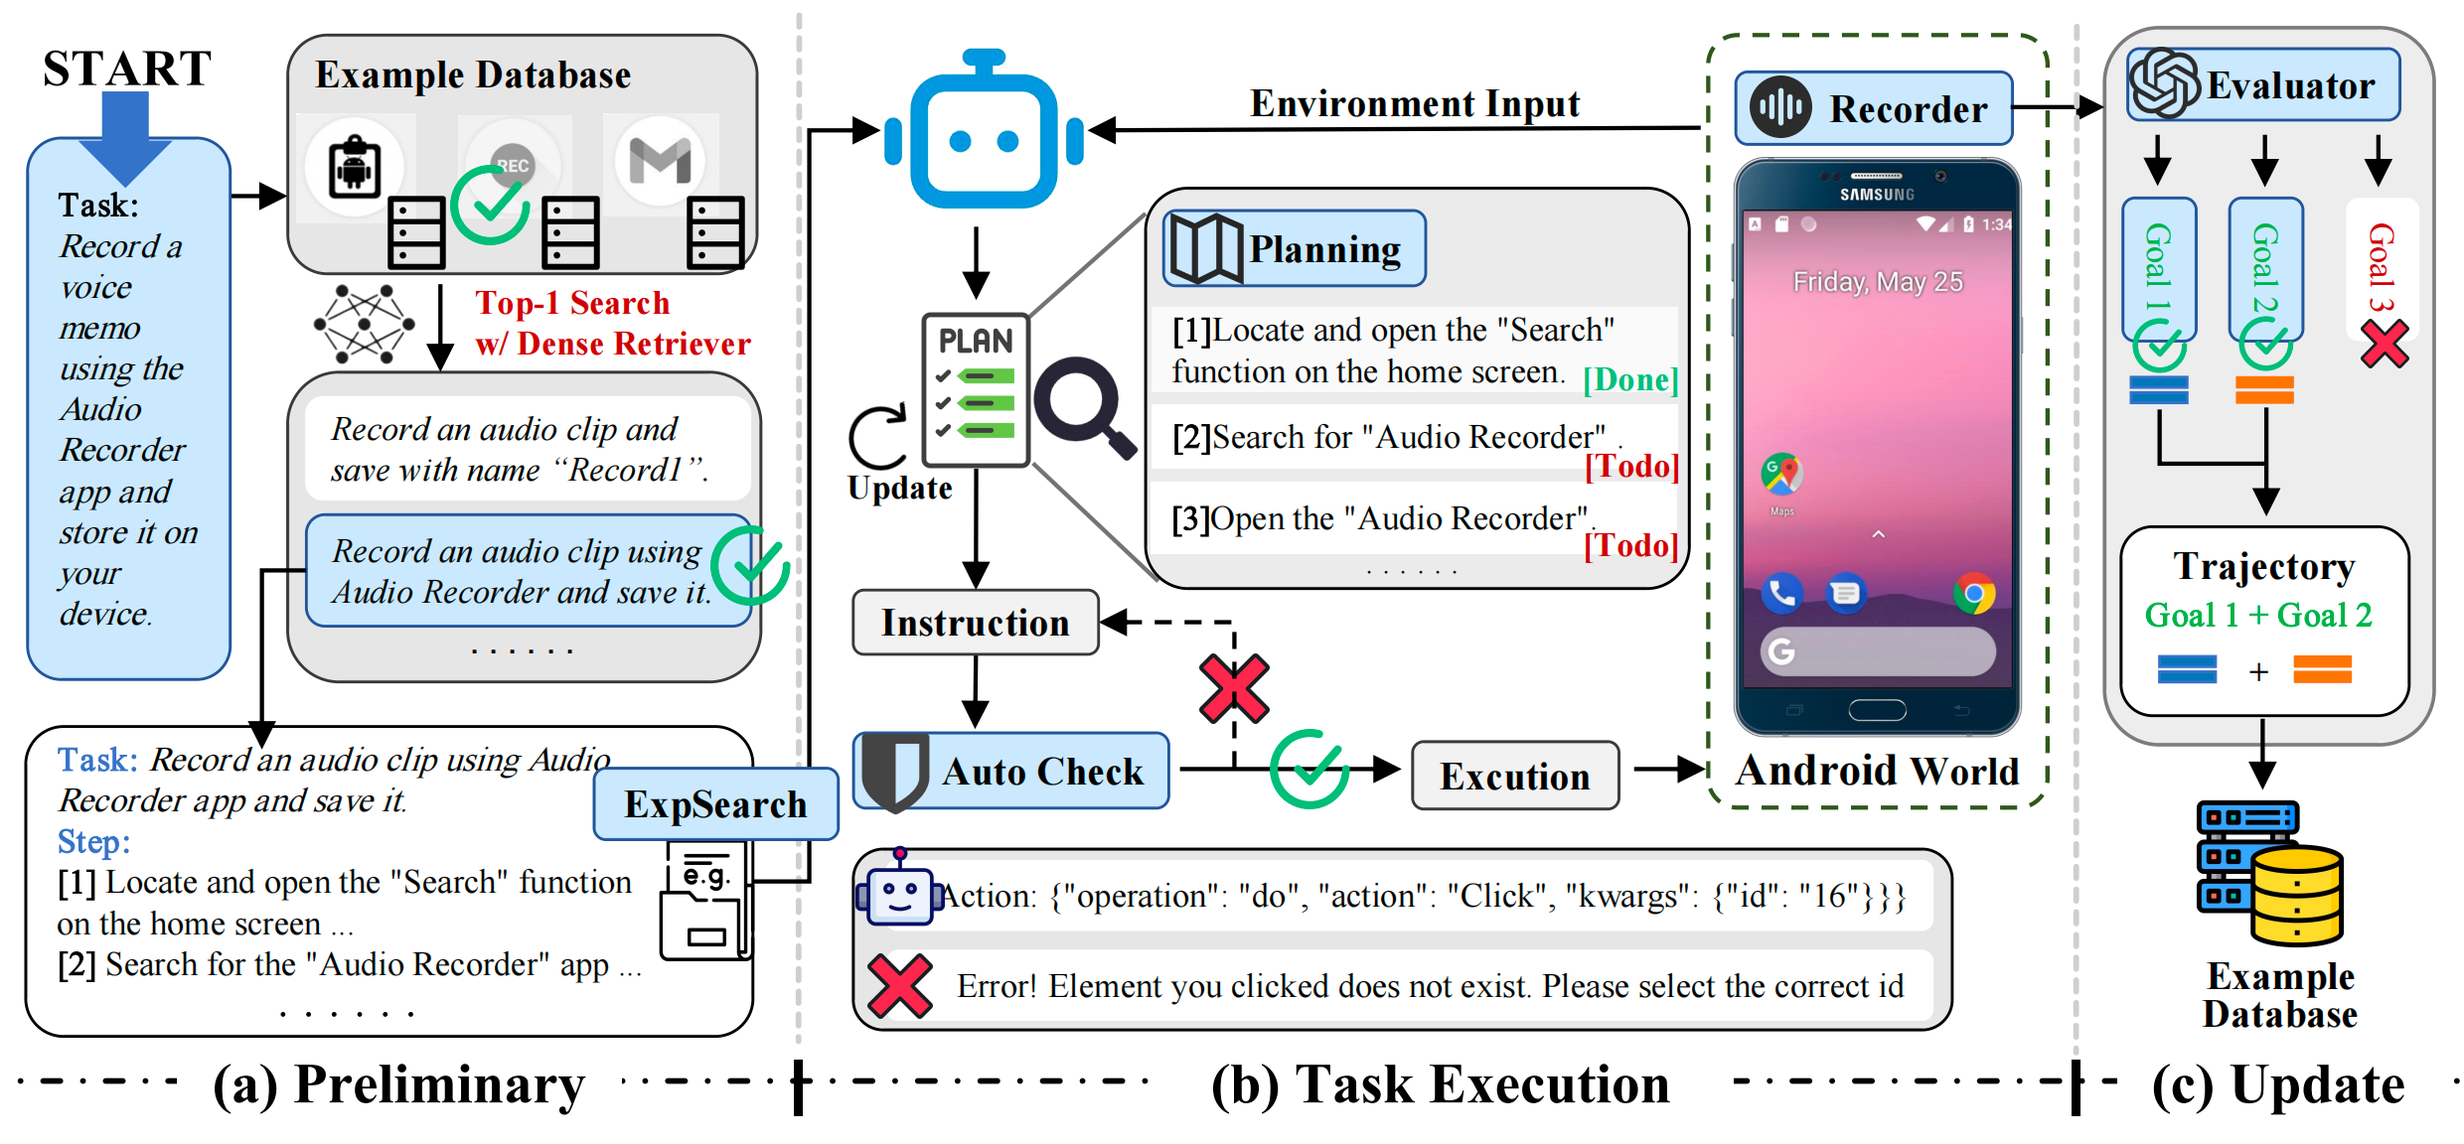
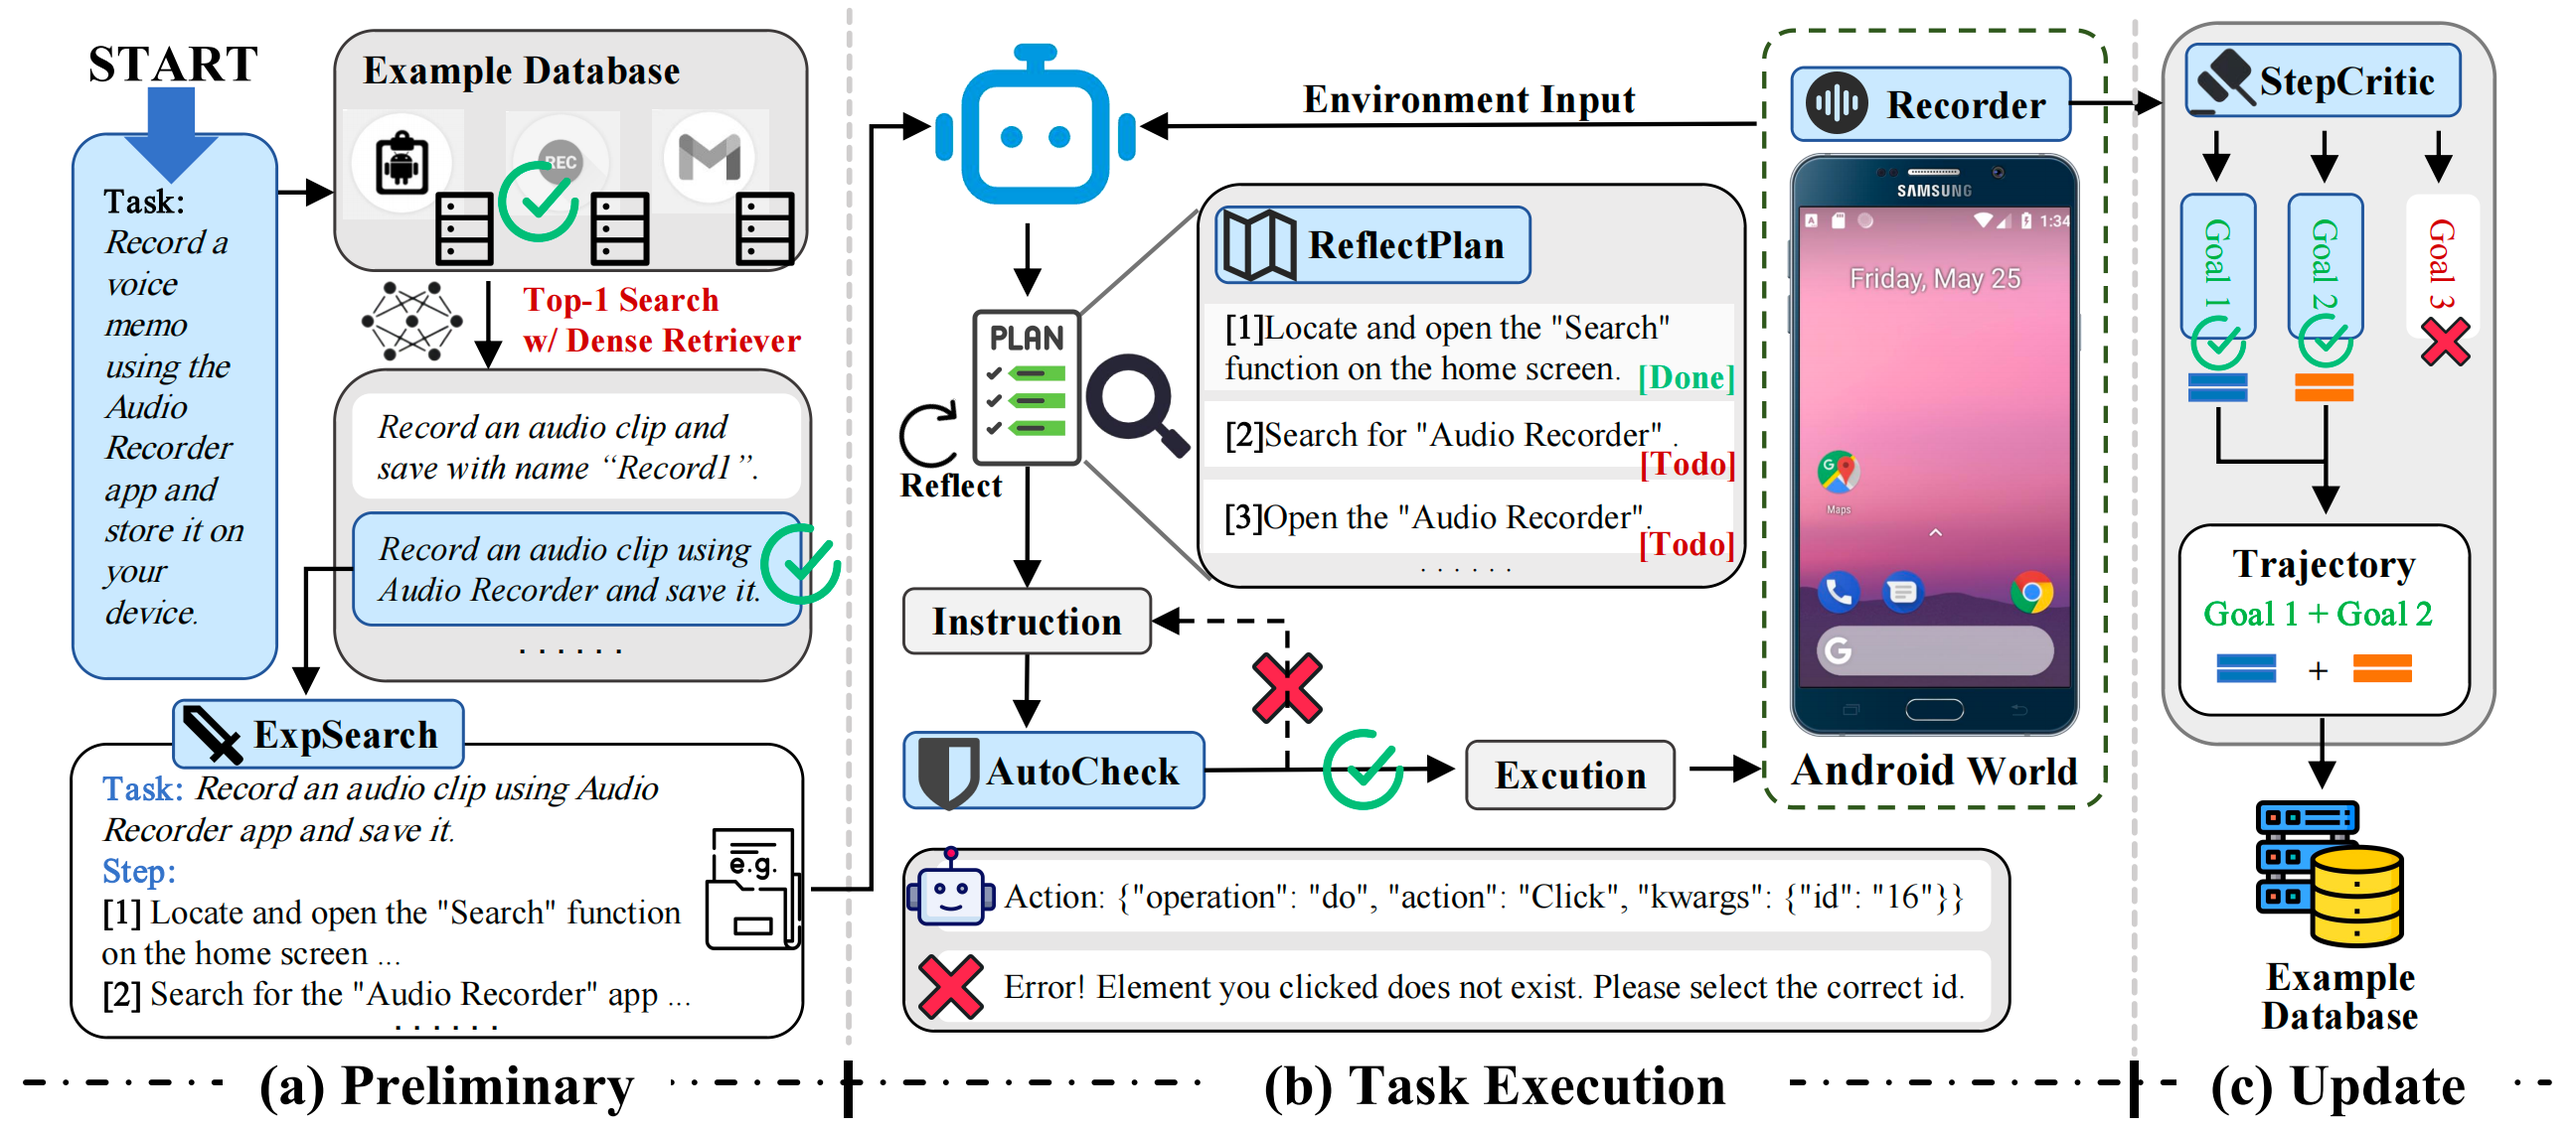
fix

Changed region(s): [[0.0, 0.0, 0.9935, 0.9842], [0.3105, 0.9227, 0.3415, 0.9842]]

diff --git a/index.html b/index.html
@@ -61,6 +61,11 @@
     <div class="navbar-menu">
       <div class="navbar-start" style="flex-grow: 1; justify-content: center;">
         <!-- TODO -->
+        <a class="navbar-item" href="https://anonymous.4open.science/r/Androidgen-7F18" style="display: flex; justify-content: center; align-items: center;">
+          <span class="icon">
+            <i class="fab fa-github"></i>
+          </span>
+        </a>
 
         <!-- <div class="navbar-item has-dropdown is-hoverable">
           <a class="navbar-link">
@@ -93,7 +98,7 @@
         <div class="columns is-centered">
           <div class="column has-text-centered">
             <h1 class="title is-1 publication-title">
-              Androidgen
+              AndroidGen: Building an Android Language Agent under Data Scarcity
             </h1>
             <!-- TODO -->
             <div class="is-size-5 publication-authors">
@@ -155,34 +160,19 @@
         <div class="column highlight is-8 content">
           <span style="font-weight:bold">
             <!-- TODO -->
-            Large Language Models (LLMs) have opened up a world of possibilities for various NLP tasks, sparking optimism for the future.
-            Despite their potential, LLMs are not yet widely harnessed to aid
-            in daily life tasks as agents on real mobile devices. One of the most
-            significant challenges is the need for highquality data sources.
-            Even state-of-the-art models fail to perform tasks due to insufficient capabilities and the absence of robust data evaluation. On
-            the other hand, human annotation is often hindered by time constraints, labor intensity, and inconsistencies in user habits. Given
-            these challenges, we develop A3Pipe (Automated Android Agent
-            Pipeline). We propose an agent algorithm comprising ExpSearch,
-            Planning, and AutoCheck to enhance the capabilities of agents
-            to reason and generalize under data scarcity. Furthermore, we introduce Goal Conditioned Evaluator for mobile devices that can
-            assess the completion of task trajectories, which is helpful for data
-            selection and augmentation. Our system achieves an 82.4% improvement on AndroidWorld, significantly enhancing the efficiency of
-            automatic data collection. Additionally, we train Llama-3-70B on
-            trajectories selected by the Goal Conditioned Evaluator, resulting
-            in a 222% enhancement, demonstrating the effectiveness of our
-            data selection strategy. The data pipeline can fully automate the
-            construction of Android navigation data at a low cost and time
-            investment, with experiments indicating that its cost is only 5%
-            compared to human annotation and efficiency 5.85 times greater.
+            Large Language Models have opened up a world of possibilities for various NLP tasks, sparking optimism for the future.
+            Despite their potential, LLMs have yet to be widely used as agents on real mobile devices.
+            The main challenge is the need for high-quality data sources.
+            Even SOTA LLMs fail to perform tasks due to insufficient capabilities and the absence of robust data evaluation.
+            On the other hand, human annotation is often hindered by time constraints and labor intensity.
+            Given these challenges, we develop a framework called AndroidGen to enhance the capabilities of LLM-based agents to reason and generalize under data scarcity. 
+            In addition, we propose an Android data pipeline based on AndroidGen and train Llama-3-70B on the data collected through this pipeline to develop an open-source mobile agent without manually labeled trajectories.
+            We extensively evaluate AndroidGen with AndroidWorld, AitW, and various popular applications, demonstrating its improvements and revealing potential areas for future improvement.
+
           </span>
           <br>
         </div>
       </div>
-      <a class="navbar-item" href="https://anonymous.4open.science/r/Androidgen-7F18" style="display: flex; justify-content: center; align-items: center;">
-        <span class="icon" style="font-size: 3em;">
-          <i class="fab fa-github"></i>
-        </span>
-      </a>
       <br>
       <!-- TODO -->
       <div class="column is-full-width" id="teaserVideos">
@@ -356,7 +346,7 @@
         <div class="column">
           <md-block clss="content">
             <img src="./static/images/demo-android (1)_00.png" alt="Join a community" width="95%">  
-            <p><strong>As shown in the figure, we gave Examples of Androidgen’s execution on four user tasks.</p></strong>
+            <p><strong>As shown in the figure, we gave Examples of AndroidGen’s execution on four user tasks.</p></strong>
           </md-block>
         </div>
     </div>
@@ -450,34 +440,34 @@
       <div class="column">
         <md-block class="content">
           <!-- TODO -->
-          <img src="./static/images/main_00.png" alt="Framework" style="width:100%">
-          Overview of our Androidgen system designed to complete tasks in Android. Our process comprises three components: preliminary, task execution, and update. 
+          <img src="./static/images/main.png" alt="Framework" style="width:100%">
+          Overview of our AndroidGen system designed to complete tasks in Android. 
+          Our process comprises three stages: preliminary, task execution, and update. 
           <br>
-          Preliminary (a): We use dense retrieval to extract the top1 similar tasks and trajectories from the database and feed them into the agent
+          Preliminary (a): ExpSearch retrieve the top-1 similar tasks and trajectories from the database and feed them into the agent. 
           <br>
-          Task Execution (b): The agent generates or maintains a plan and creates operational instructions based on the plan and given examples. The Auto Check module verifies these instructions, executing them if successful or regenerating them if not. 
-          <br>
-          Update (c): Our Goal Conditioned Evaluator assesses the recorded trajectories and updates the database accordingly.
+          Task Execution (b): ReflectPlan reflects and updates the plan status. Then, the agent generates operations based on the plan and retrieval example. AutoCheck verifies these operations, executing them if successful or regenerating them if not.
+          <br> 
+          Update (c): StepCritic assesses the trajectories in fine-grand and updates the database accordingly.
         </md-block>
       </div>
     </div>
     <br>
     <br>
     <div class="container is-max-widescreen">
-      <h2 class="title">Goal Conditioned Evaluator</h2>
+      <h2 class="title">StepCritic</h2>
       <div class="column">
         <md-block class="content">
           <!-- TODO -->
           <div style="text-align: center;">
             <img src="./static/images/data_collection_00.png" alt="data" style="width:50%; display: inline-block;">
           </div>
-          <p> As shown in this figure, we input the complete operation sequence,
-            along with the final state of the device, to enhance the trajectory’s
-            information density under the constraint of limited context length.
-            Furthermore, for complex tasks with multiple requirements, while
-            agents may not fully complete the tasks, portions of these trajectories are still accurate and possess significant learning value. Discarding such data means a substantial waste within our data pipeline.
-            Therefore, we instruct the evaluator to decompose tasks into multiple subgoals and assess whether each subgoal is achieved and the
-            corresponding steps.</p>
+          <p> we input the complete operation 
+            sequence, along with the final state of the device, to 
+            enhance the trajectory’s information density under 
+            the constraint of limited context length. Then, we 
+            instruct StepCritic to assess whether each sub-goal
+            is achieved and the corresponding steps.</p>
         </md-block>
       </div>
     </div>
